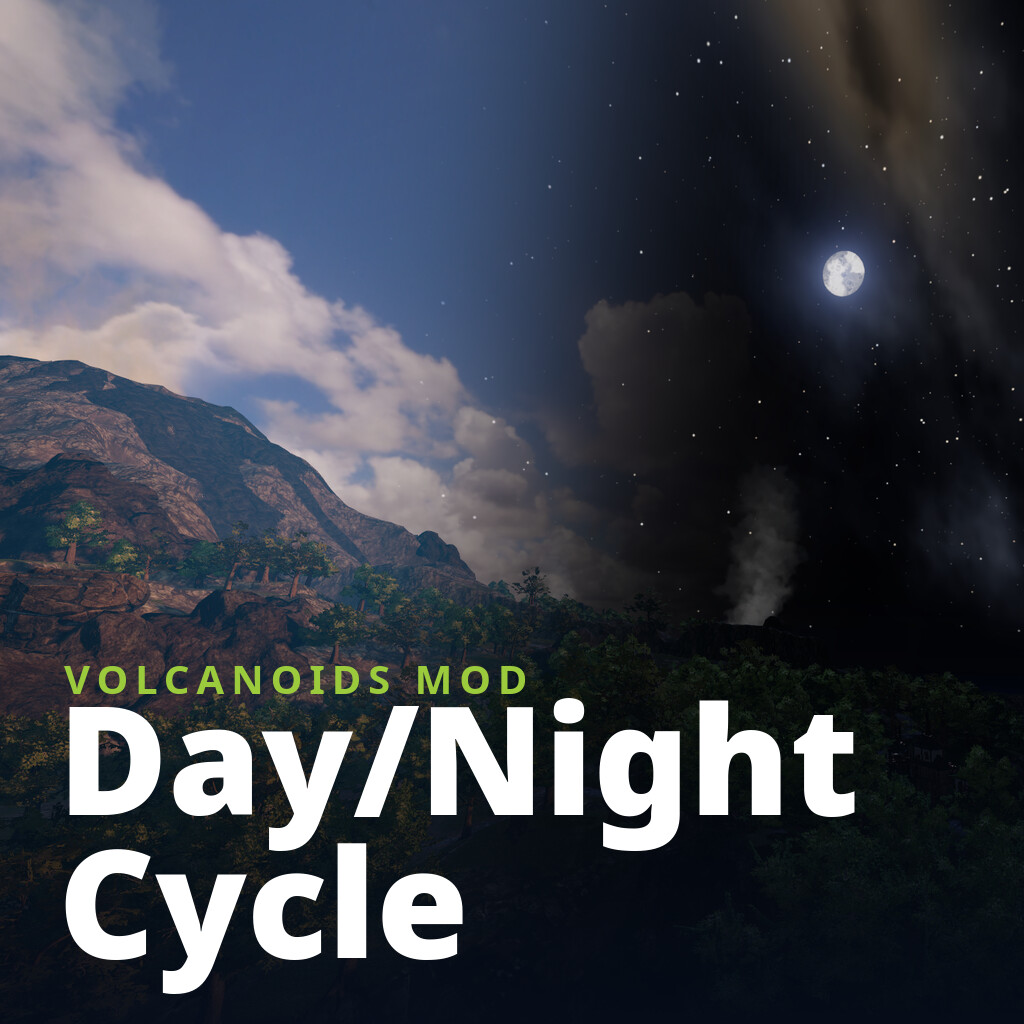
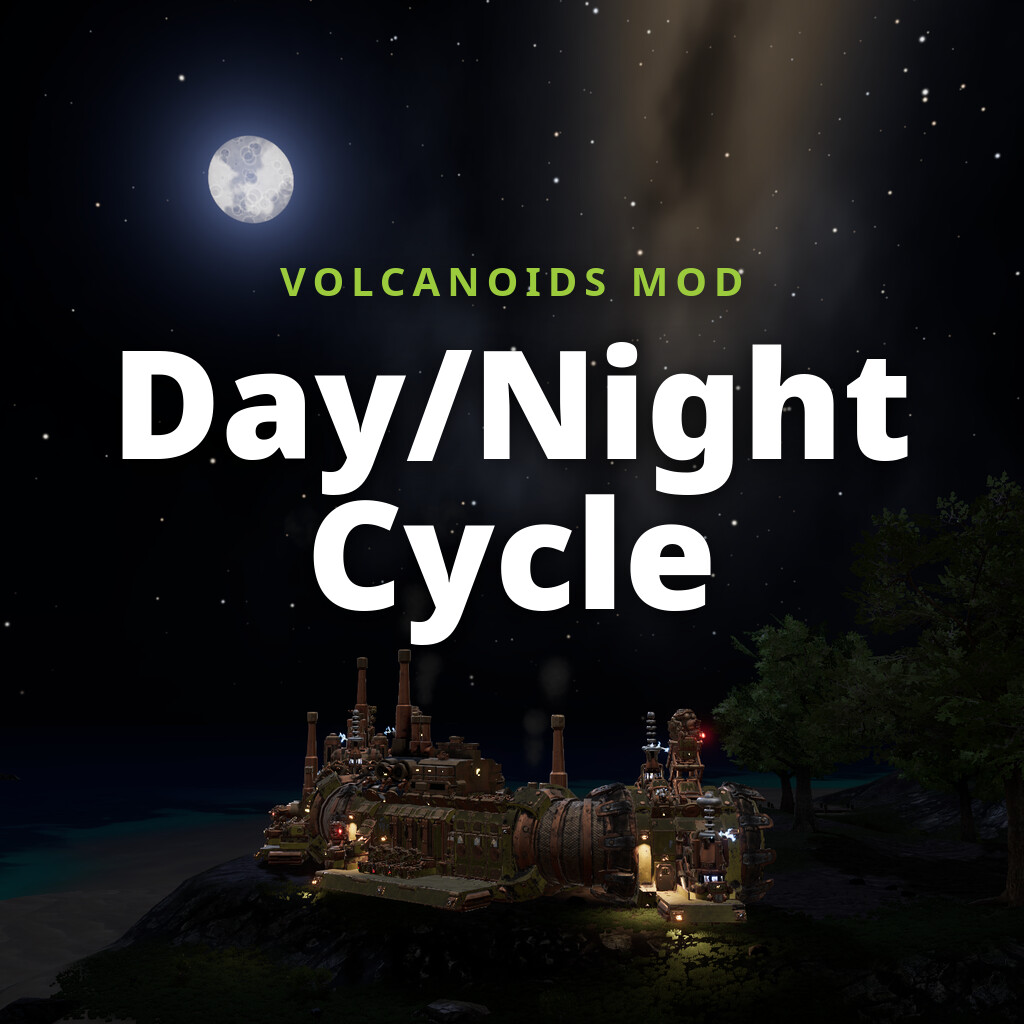
Day/Night Cycle: new cover, a fully built drillship under the full moon

diff --git a/docs/publishing.md b/docs/publishing.md
@@ -26,8 +26,9 @@ Everything on the page comes from the mod's folder:
 | Item ID | `Workshop/item-id`, written after the first upload |
 
 `scripts/mods.py validate` checks the sizes, that the cover is square, and that the changelog has the version's
-line. Day/Night Cycle's cover blends a golden-hour and a full-moon capture taken from the same camera, with the title
-in the brand's Noto Sans Black and a green eyebrow.
+line. Day/Night Cycle's cover is a showcase capture (`docs/building.md`) of a fully built drillship under the full
+moon, cropped square, with the title centred in the brand's Noto Sans Black (150 pt at 1024 px, white, soft shadow)
+under a letter-spaced Noto Sans Bold eyebrow (40 pt, `#9BCB3C`).
 
 ## How uploads work
 
